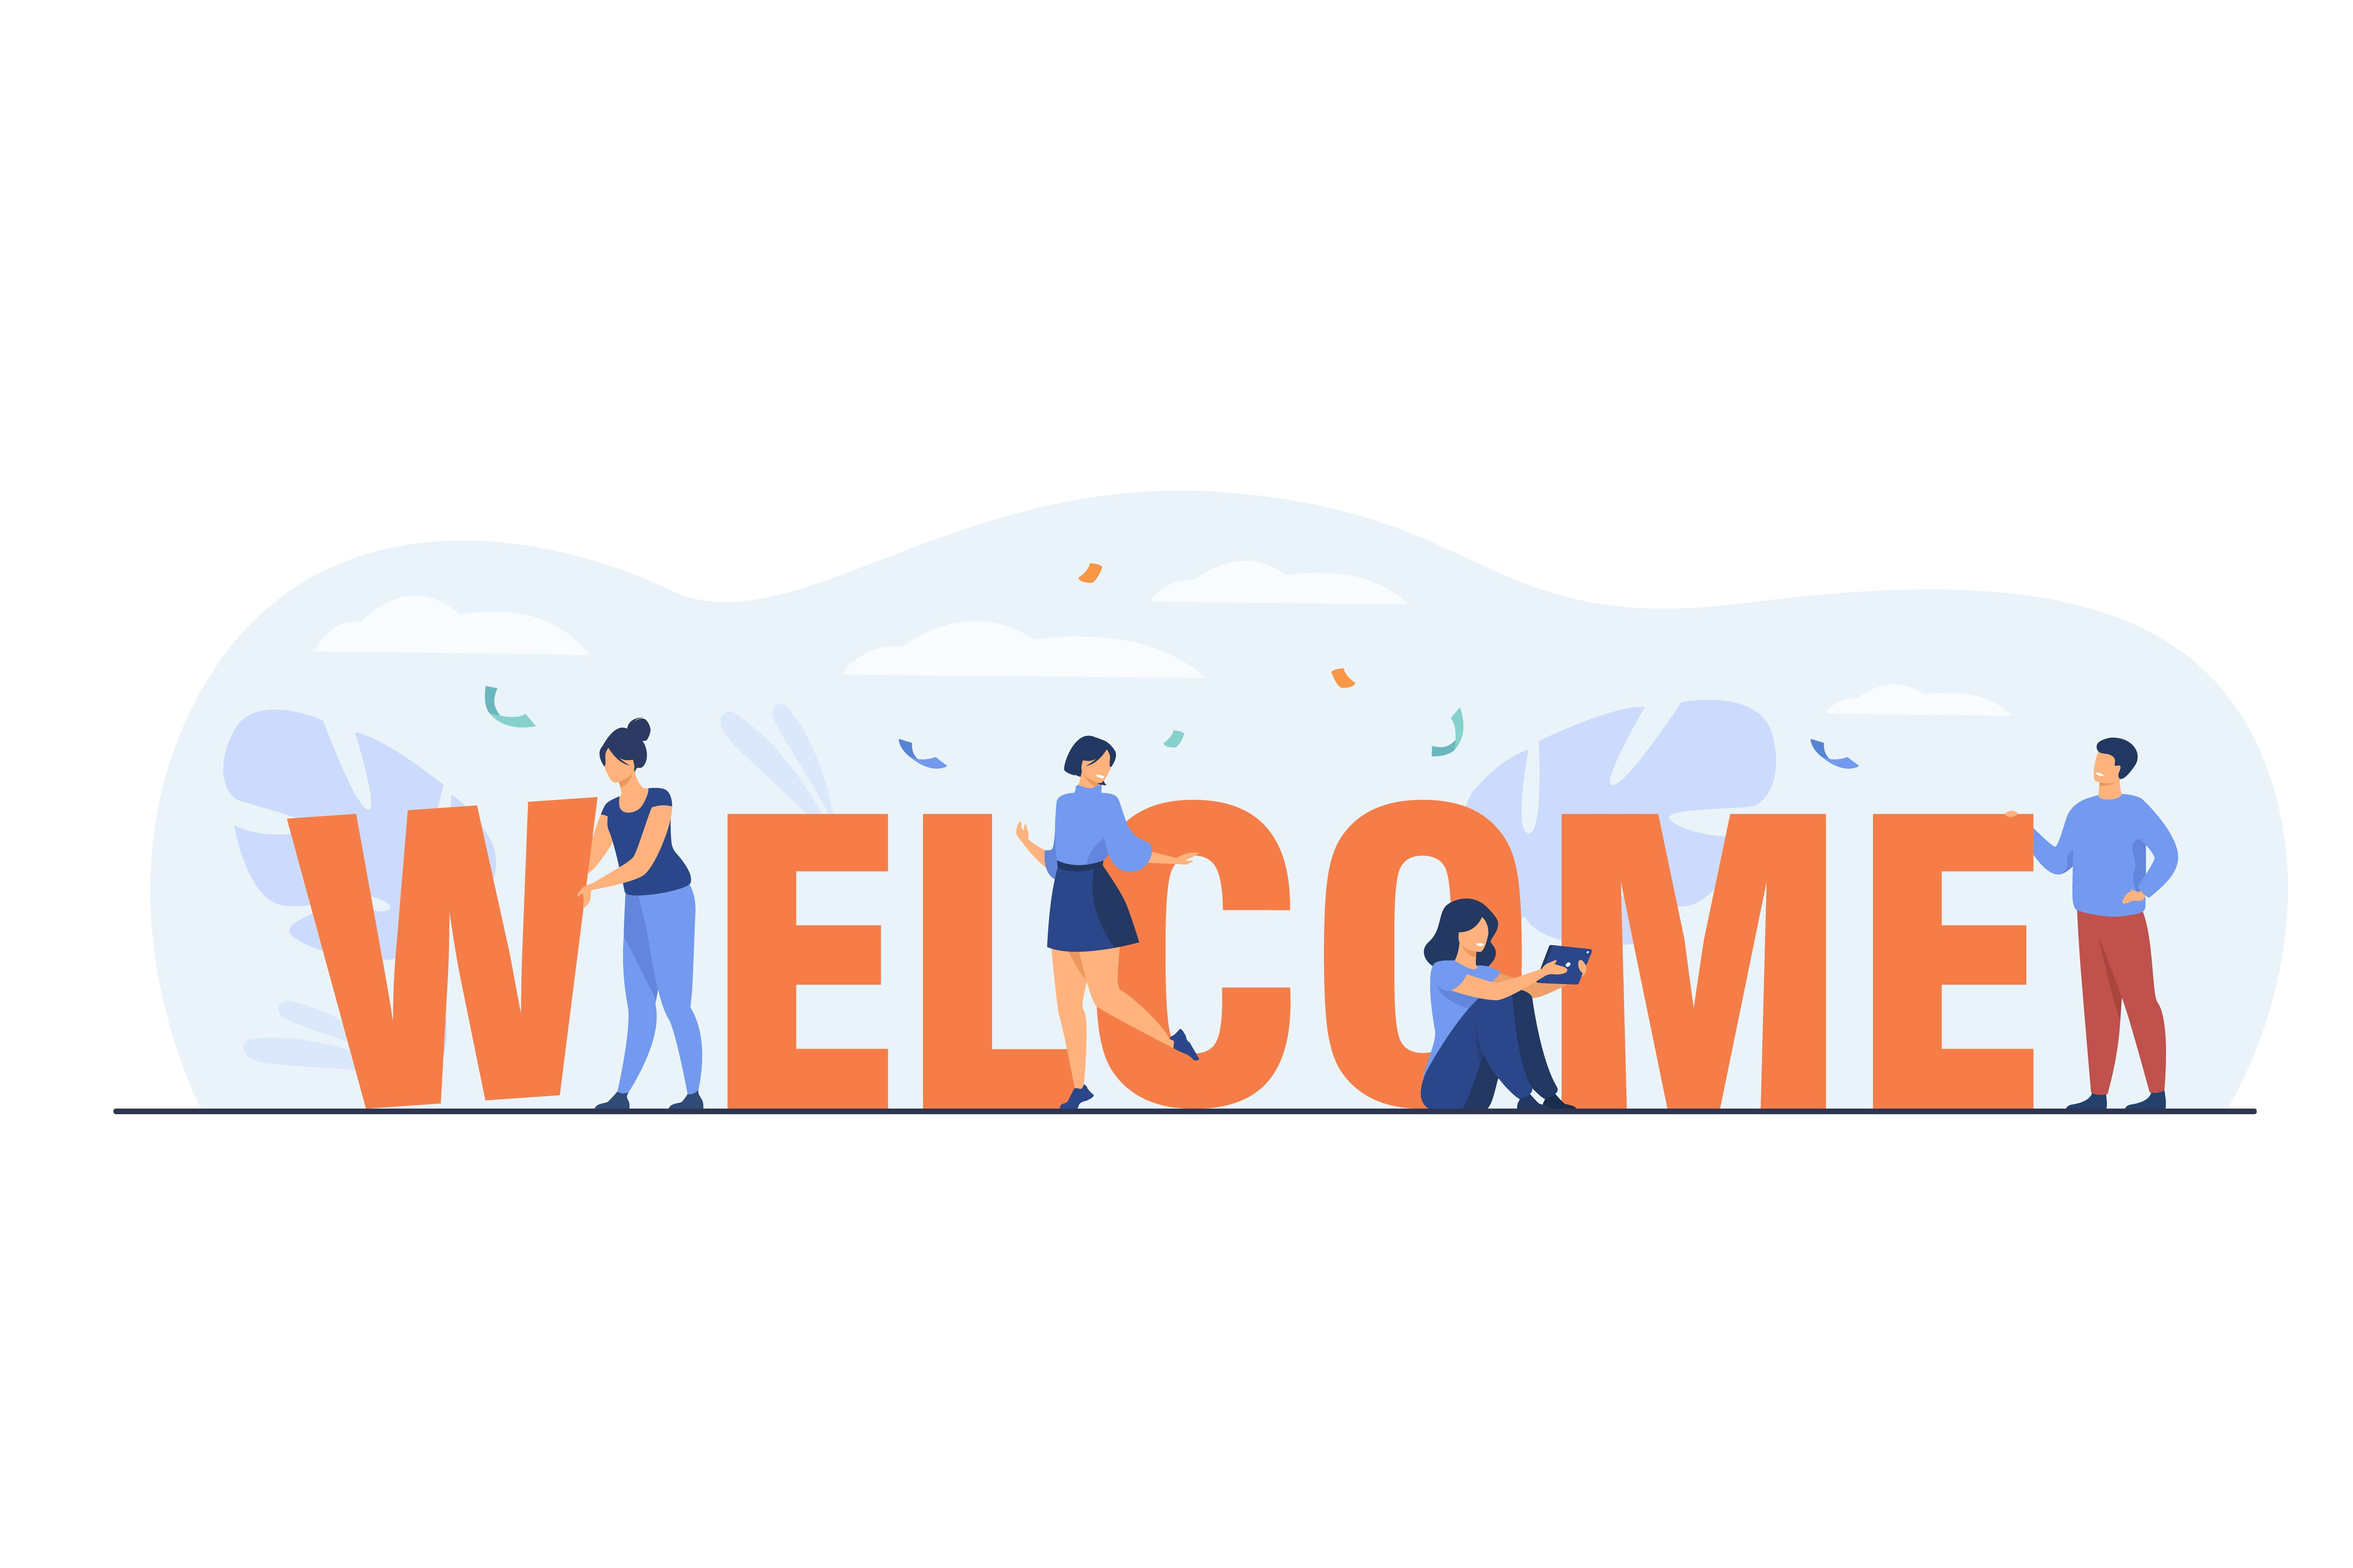
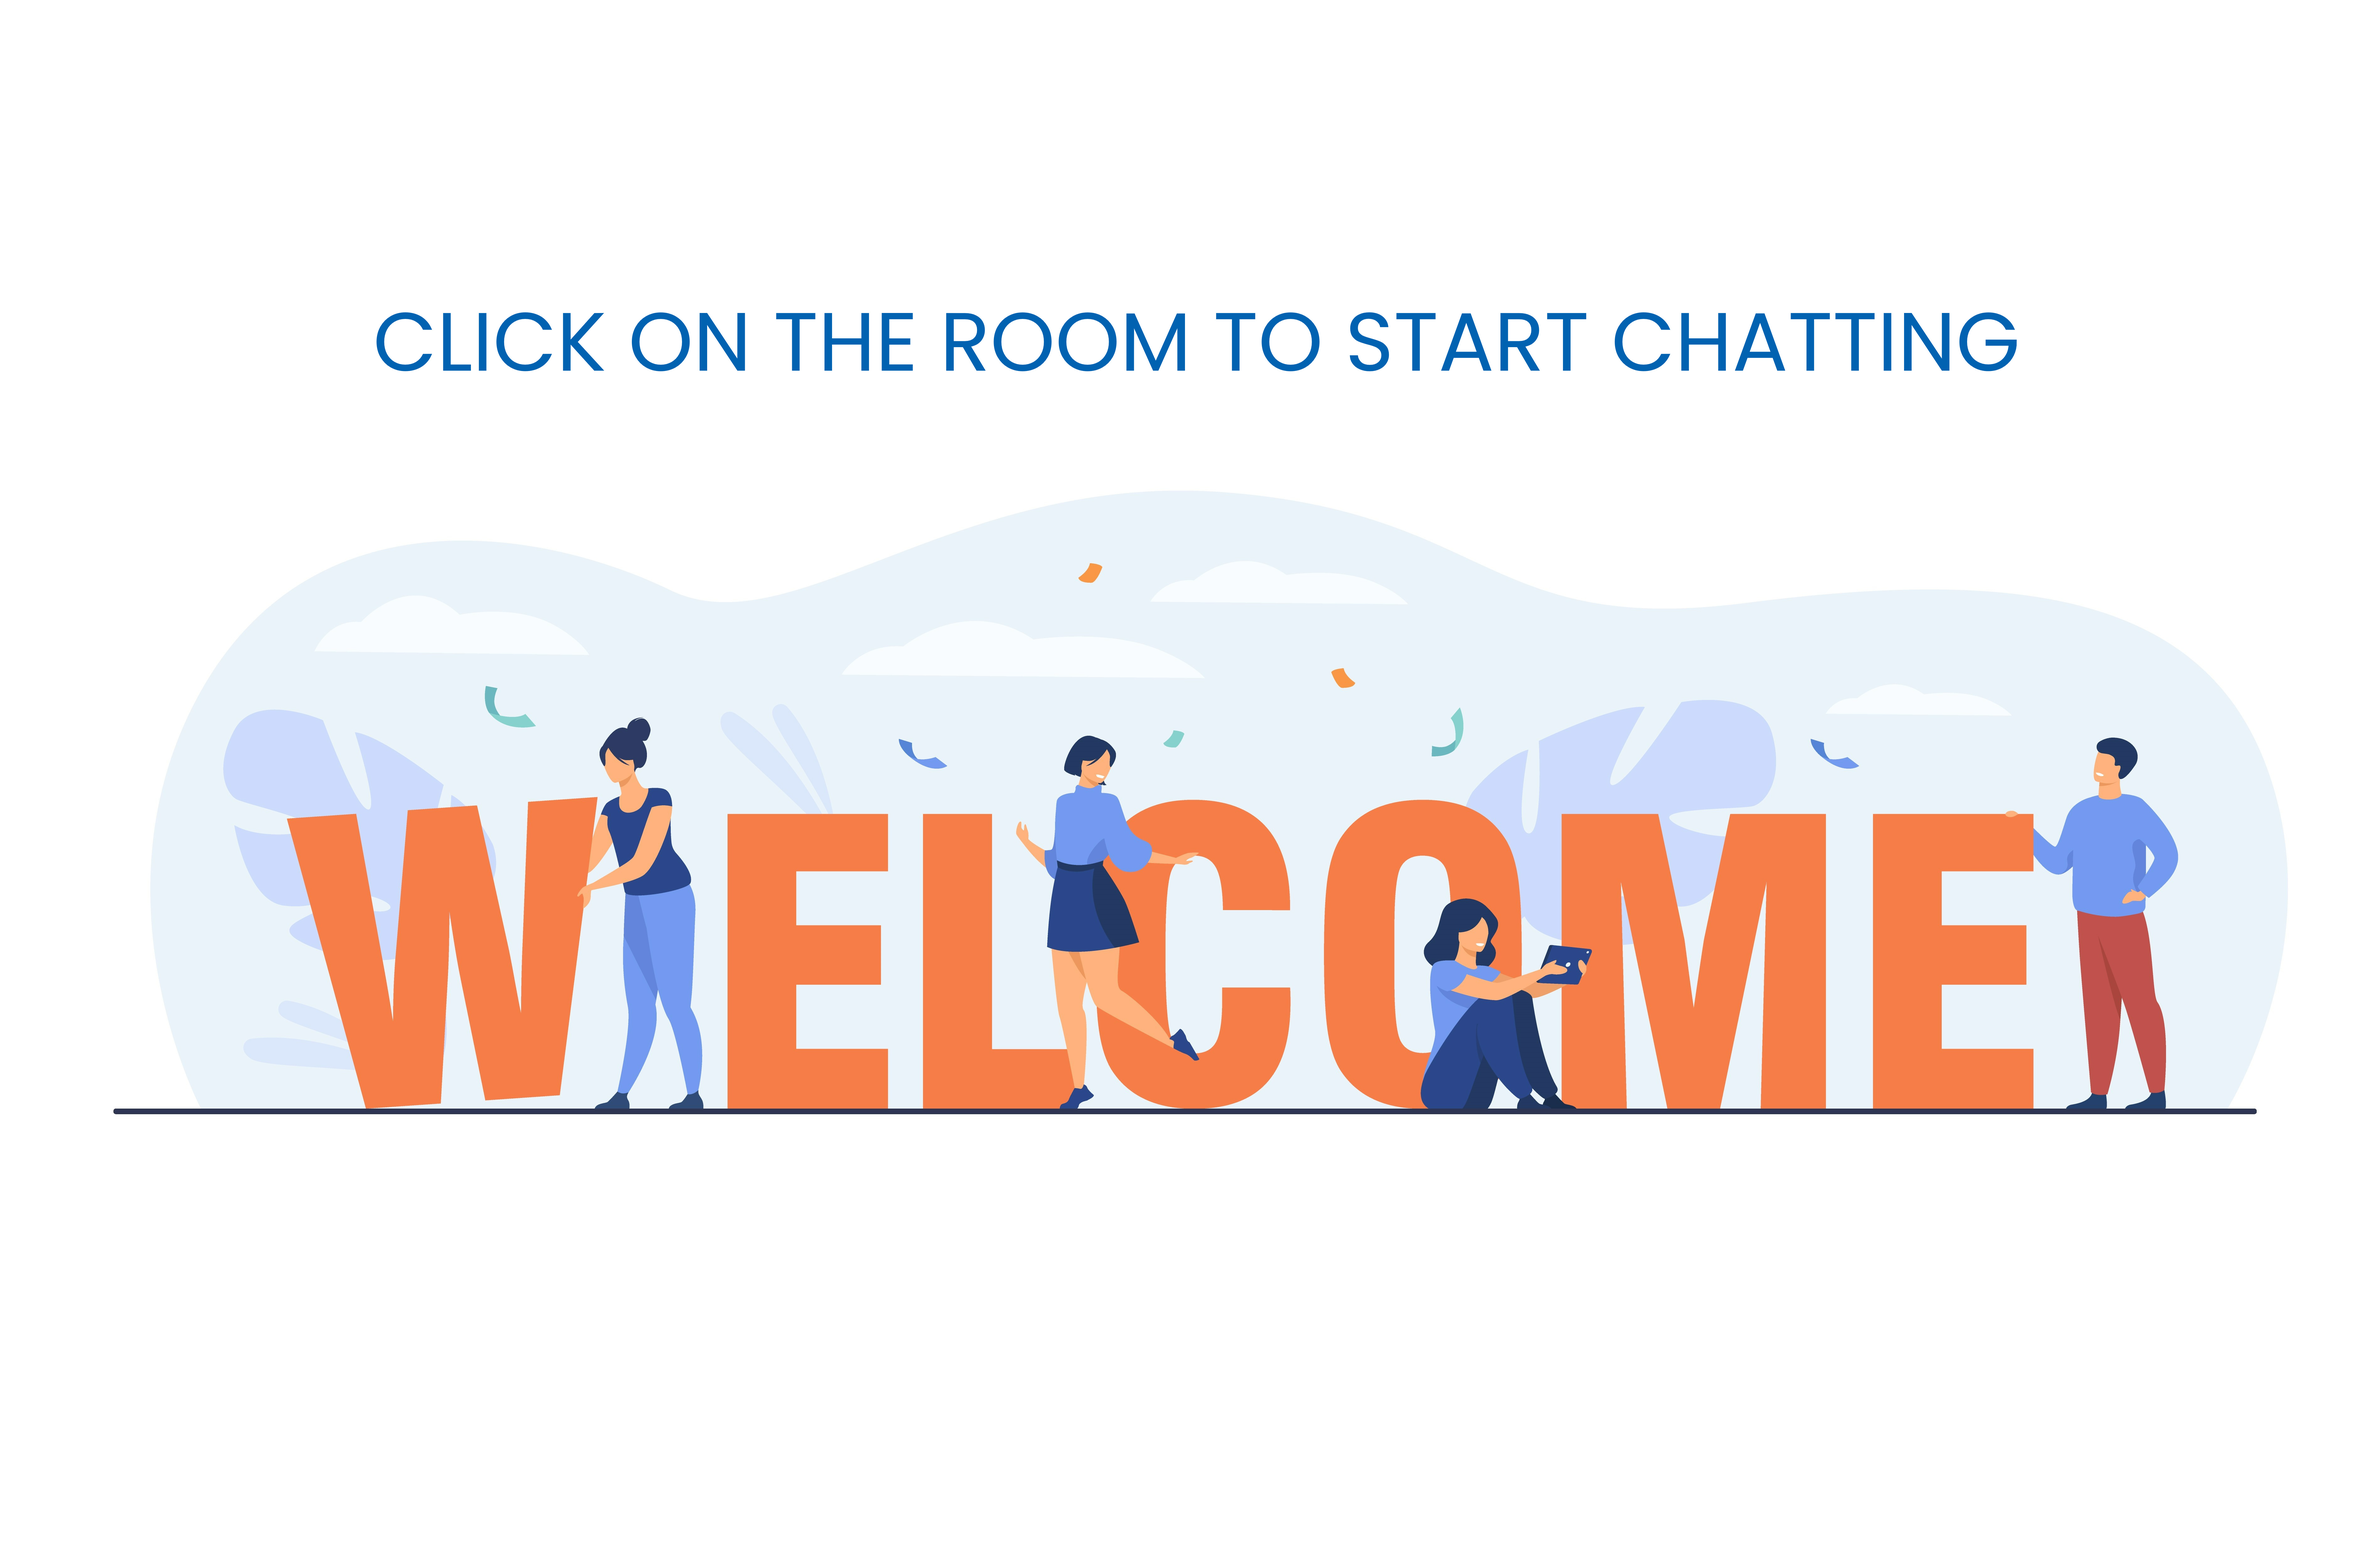
ui changes

Changed region(s): [[0.156, 0.1872, 0.8736, 0.2496]]

diff --git a/src/components/Greetings.js b/src/components/Greetings.js
@@ -5,7 +5,6 @@ import './Greetings.css';
 function Greetings() {
     return (
         <div className="hello">
-            <h1>Click on the chat to start chatting</h1>
             <img style={{ maxWidth: '100%', height : '700px', marginLeft: '4rem'}} src={Welcome}/>
         </div>
     )

diff --git a/README.md b/README.md
@@ -1,4 +1,4 @@
-# MICROSOFT ENGAGE'21 | WeConnect
+# MICROSOFT ENGAGE'21 | WeConnect - Think Less, Connect More!
 
 <b> One stop solution to connect with your peers over text and through Video calls! </b>
 
@@ -24,6 +24,8 @@
 <br/>
 
 ![Screenshot-2](src/images/Screenshot-2.png "Chat")
+
+![Screenshot-4](src/images/Screenshot-4.png "Emoji")
 
 <br/>
 
